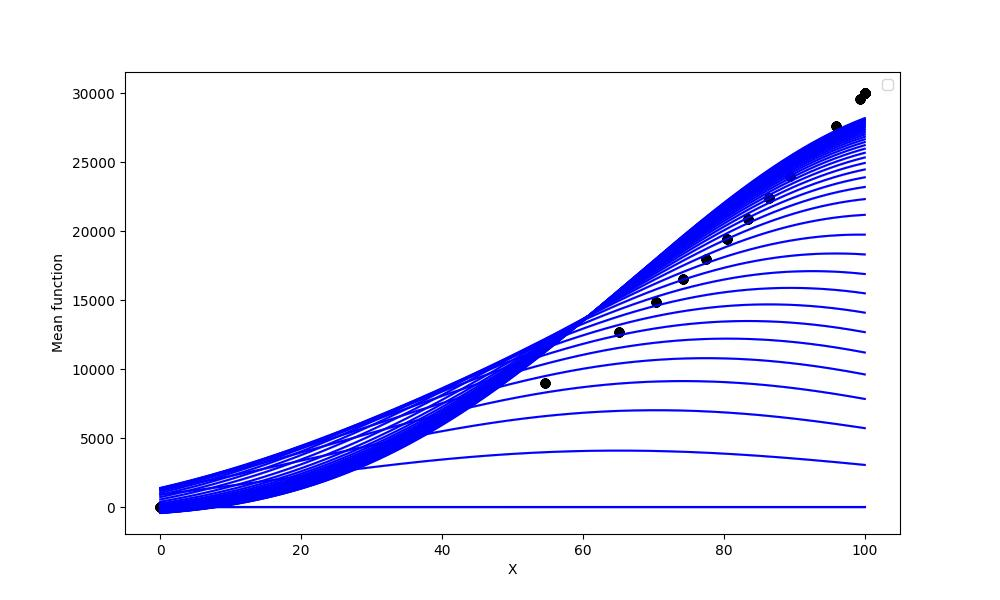
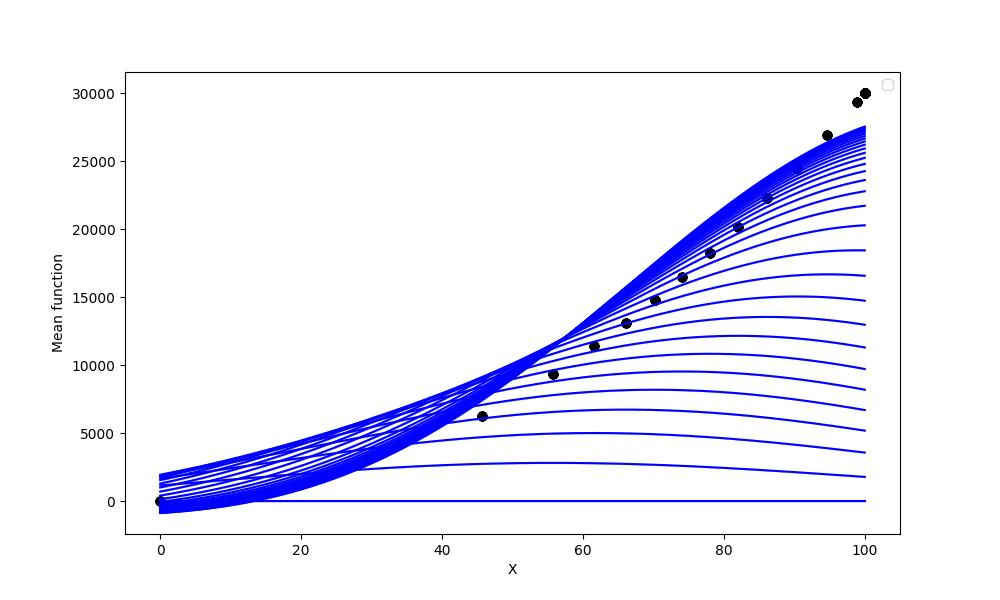
update

diff --git a/gp/gp_ucb.py b/gp/gp_ucb.py
@@ -51,16 +51,22 @@ k = GPy.kern.RBF(1, variance = 1., lengthscale = 50)
 algo = gp_ucb(X)
 X_obs = []
 Y_obs = []
+reg = []
 mean, cov = algo.initialize(k)
 print(mean)
+yb = algo.cost(100)
 plt.figure(figsize = (10, 6))
-for t in range(0,40):
+sr = 0
+for t in range(0,30):
     x = algo.sample(mean, cov)
     X_obs.append(x)
     y = algo.cost(x)
     Y_obs.append(y)
+    regret = yb - y
+    sr = sr + regret
+    reg.append(sr)
     mean, cov = algo.updation(np.array(Y_obs), np.array(X_obs))
-    plt.fill_between(X[:,0], mean[:, 0] - 1.96*np.sqrt(np.diag(cov)), mean[:, 0] + 1.96*np.sqrt(np.diag(cov)), alpha=0.2, color='blue')
+    plt.fill_between(X[:,0], mean[:, 0] - 1*np.sqrt(np.diag(cov)), mean[:, 0] + 1*np.sqrt(np.diag(cov)), alpha=0.2, color='blue')
     plt.plot(X, mean, color = 'blue')
     plt.scatter(X_obs, Y_obs, color ='black')
     plt.xlabel('X')
@@ -69,4 +75,8 @@ for t in range(0,40):
     plt.pause(0.4)
 plt.savefig('gp_ucb.jpeg')
     
-
+plt.figure(figsize=(10, 6))
+N = np.arange(0, len(reg))
+plt.plot(N, reg, label = 'regret')
+plt.legend()
+plt.savefig('regret.jpeg')
